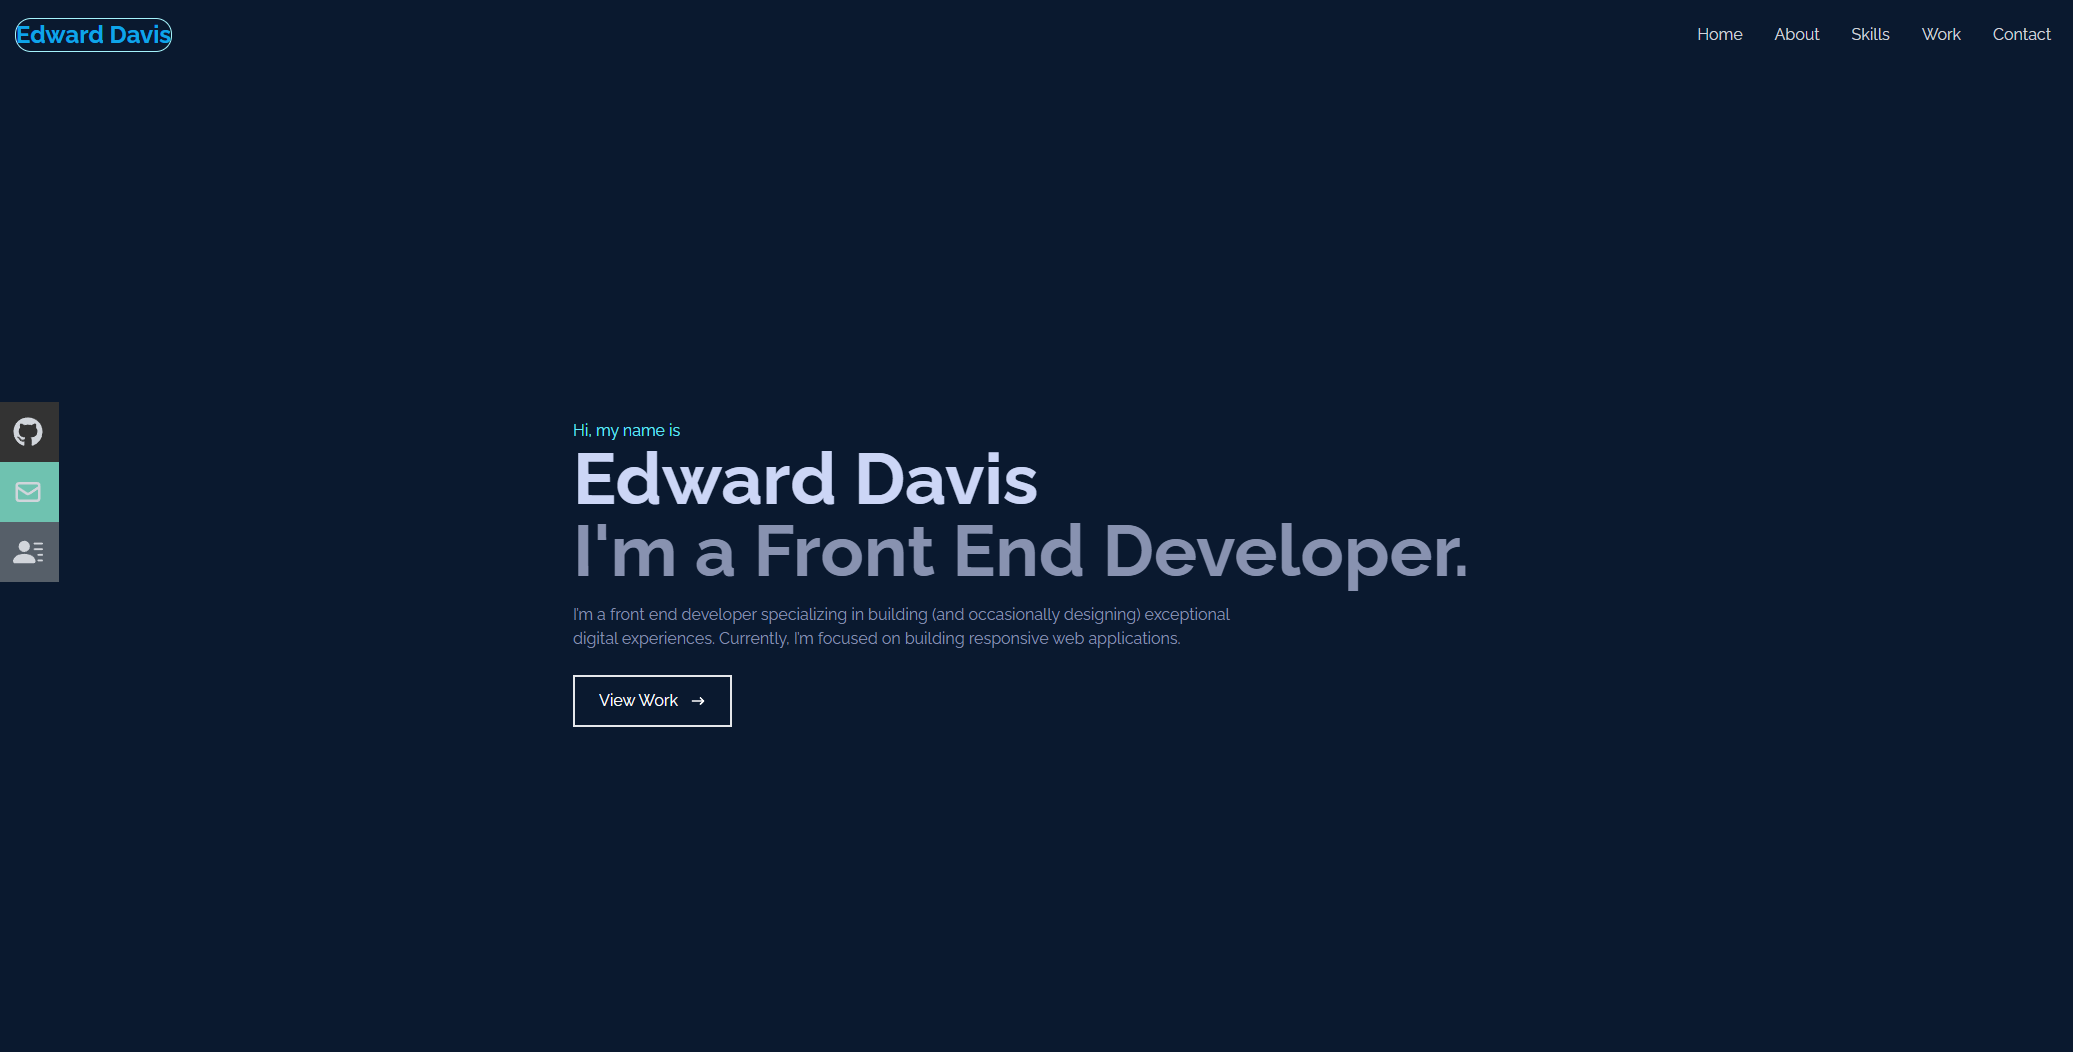
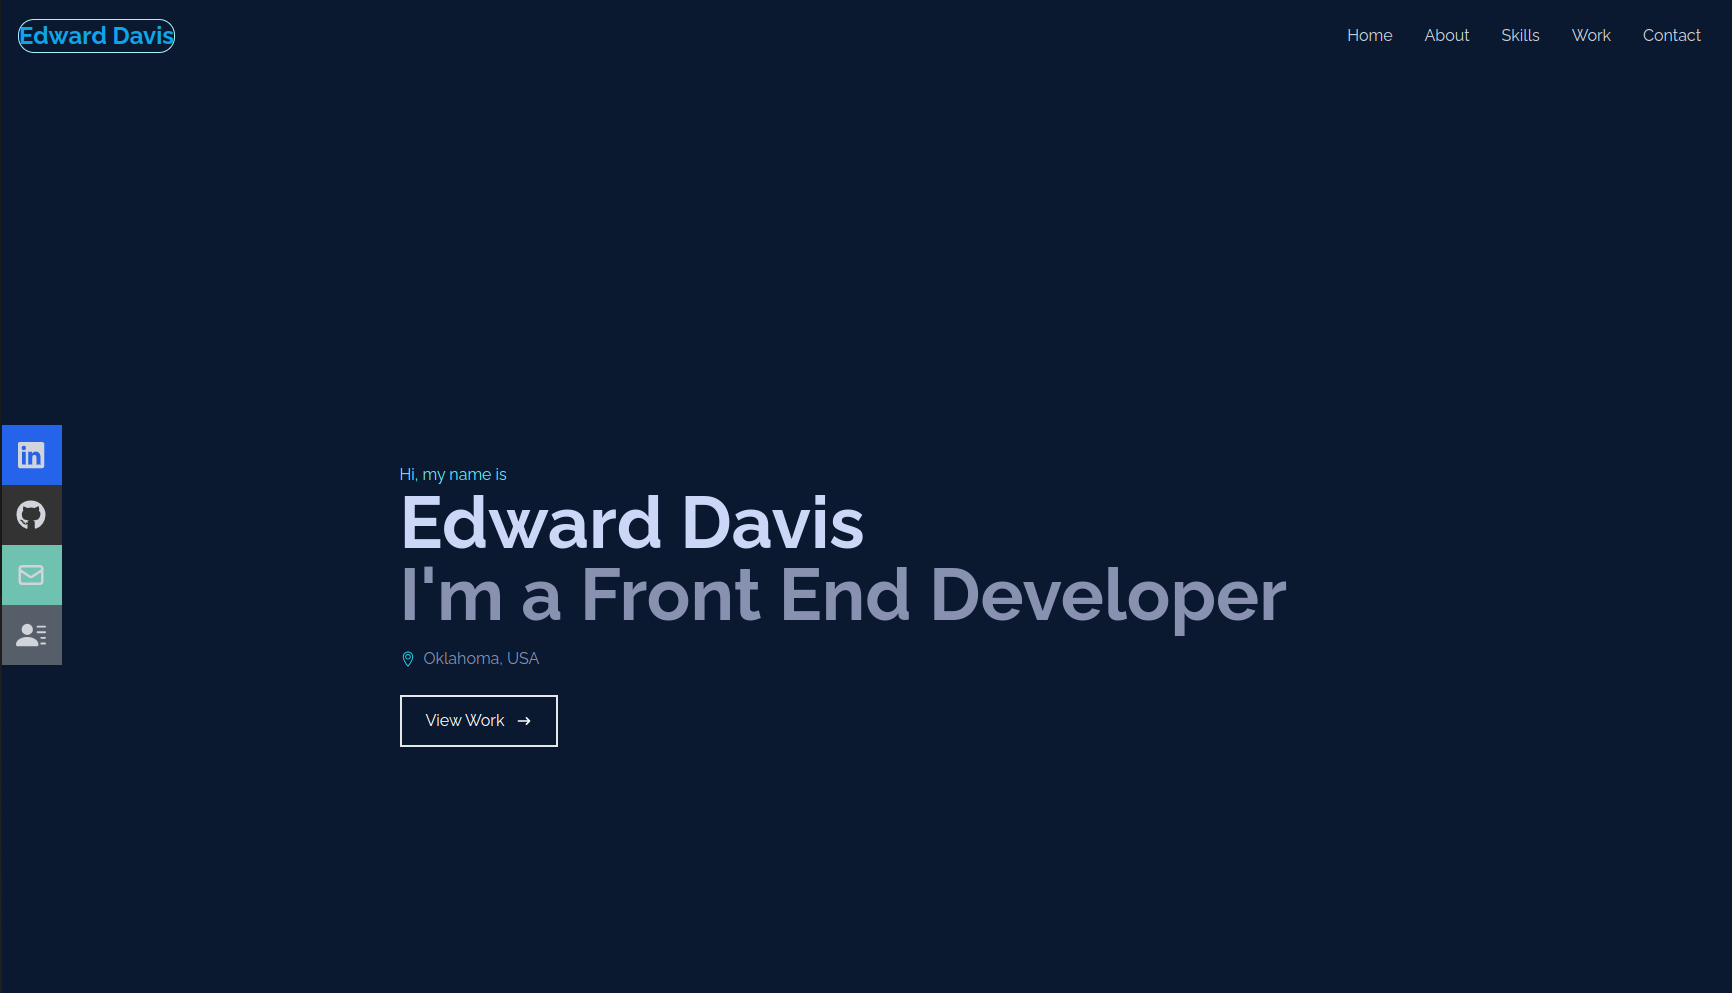
modified:   src/App.js

diff --git a/src/components/Contact.jsx b/src/components/Contact.jsx
@@ -1,5 +1,8 @@
-import React, { useState } from 'react'
-import '../contact-form.css'
+import React, { useState } from 'react';
+import '../contact-form.css';
+import { ImArrowLeft2 } from "react-icons/im";
+
+
 
 const Contact = () => {
   const [isSubmitted, setIsSubmitted] = useState(false);
@@ -43,47 +46,63 @@ const Contact = () => {
   };
 
   return (
-    <div name='contact' className='w-full h-screen bg-[#0a192f] flex justify-center items-center p-4'>
-      <form onSubmit={handleSubmit} className='flex flex-col max-w-[600px] w-full'>
-        <div className='pb-8'>
-          <p className='text-4xl font-bold inline border-b-4 border-cyan-500 text-gray-300'>Contact</p>
-          <p className='text-gray-300 py-4'>// Send me a message</p>
-        </div>
-        <div className='input-group'>
-          <input className='p-2 bg-[#0a192f]'
-            type="text"
-            name='name'
-            value={formData.name}
-            onChange={handleChange}
-            required />
-          <label for="">Name</label>
-        </div>
-        <div className='input-group'>
-          <input className='p-2 bg-[#0a192f]'
-            type="email"
-            name='email'
-            value={formData.email}
-            onChange={handleChange}
-            required />
-          <label for="">Email</label>
-        </div>
-        <textarea className='mt-4 bg-[#ccd6f6] p-2'
-          name="message"
-          rows="10"
-          value={formData.message}
-          onChange={handleChange}
-          placeholder='Message'
-          required />
+    <div className='bg-[#0a192f] relative -z-10 pt-32 sm:pt-0'>
+      
+      <div className=' absolute left-[10%] top-[30%] flex transform -rotate-45 invisible sm:visible'>
+        <ImArrowLeft2 className='text-cyan-300 text-2xl'/>
+        <p className='text-gray-300 text-xl ml-4'>Or find me here!</p>
+        
+      </div>
 
 
-        {!isSubmitted && (
-          <button className='text-white border-2 hover:bg-cyan-400 hover:border-cyan-400 px-4 py-3 my-8 mx-auto flex items-center'>Send Message</button>
-        )}
-        <p className='text-gray-300 px-4 py-3 my-8 mx-auto flex items-center'>{message}</p>
-      </form>
+      <div name='contact' className=' w-full h-screen bg-[#0a192f] flex justify-center items-center p-4'>     
+        <form onSubmit={handleSubmit} className='flex flex-col max-w-[600px] w-full'>
+          <div className='pb-8'>
+            <p className='text-4xl font-bold inline border-b-4 border-cyan-500 text-gray-300'>Contact</p>
+            <p className='text-gray-300 py-4'>// Send me a message</p>
+          </div>
+          <div className='input-group'>
+            <input
+              className='p-2 bg-[#0a192f]'
+              type='text'
+              name='name'
+              value={formData.name}
+              onChange={handleChange}
+              required
+            />
+            <label>Name</label>
+          </div>
+          <div className='input-group'>
+            <input
+              className='p-2 bg-[#0a192f]'
+              type='email'
+              name='email'
+              value={formData.email}
+              onChange={handleChange}
+              required
+            />
+            <label>Email</label>
+          </div>
+          <textarea
+            className='mt-4 bg-[#ccd6f6] p-2'
+            name='message'
+            rows='10'
+            value={formData.message}
+            onChange={handleChange}
+            placeholder='Message'
+            required
+          />
+
+          {!isSubmitted && (
+            <button className='text-white border-2 hover:bg-cyan-400 hover:border-cyan-400 px-4 py-3 my-8 mx-auto flex items-center'>
+              Send Message
+            </button>
+          )}
+          <p className='text-gray-300 px-4 py-3 my-8 mx-auto flex items-center'>{message}</p>
+        </form>
+      </div>
     </div>
-  )
-}
+  );
+};
 
-
-export default Contact
+export default Contact;

diff --git a/src/components/Navbar.jsx b/src/components/Navbar.jsx
@@ -18,7 +18,7 @@ const Navbar = () => {
   return (
     <div className='fixed w-full h-[80px] flex justify-between items-center px-4 bg-[#0a192f] text-gray-300'>
       <div>
-        <h1 className='text-2xl font-bold text-sky-500 border-double border rounded-2xl border-cyan-200'>
+        <h1 className='text-2xl font-bold text-sky-800 border-double border rounded-2xl border-cyan-200'>
           Edward Davis
         </h1>
       </div>
@@ -26,27 +26,27 @@ const Navbar = () => {
       {/* menu */}
       <ul className='hidden md:flex'>
         <li>
-          <Link to='home' smooth={true} duration={500}>
+          <Link to='home' smooth={true} duration={800}>
             Home
           </Link>
         </li>
         <li>
-          <Link to='about' smooth={true} duration={500}>
+          <Link to='about' smooth={true} duration={800}>
             About
           </Link>
         </li>
         <li>
-          <Link to='skills' smooth={true} duration={500}>
+          <Link to='skills' smooth={true} duration={800}>
             Skills
           </Link>
         </li>
         <li>
-          <Link to='work' smooth={true} duration={500}>
+          <Link to='work' smooth={true} duration={800}>
             Work
           </Link>
         </li>
         <li>
-          <Link to='contact' smooth={true} duration={500}>
+          <Link to='contact' smooth={true} duration={800}>
             Contact
           </Link>
         </li>
@@ -66,38 +66,38 @@ const Navbar = () => {
         }
       >
         <li className='py-6 text-4xl'>
-          <Link onClick={handleClick} to='home' smooth={true} duration={500}>
+          <Link onClick={handleClick} to='home' smooth={true} duration={800}>
             Home
           </Link>
         </li>
         <li className='py-6 text-4xl'>
           {' '}
-          <Link onClick={handleClick} to='about' smooth={true} duration={500}>
+          <Link onClick={handleClick} to='about' smooth={true} duration={800}>
             About
           </Link>
         </li>
         <li className='py-6 text-4xl'>
           {' '}
-          <Link onClick={handleClick} to='skills' smooth={true} duration={500}>
+          <Link onClick={handleClick} to='skills' smooth={true} duration={800}>
             Skills
           </Link>
         </li>
         <li className='py-6 text-4xl'>
           {' '}
-          <Link onClick={handleClick} to='work' smooth={true} duration={500}>
+          <Link onClick={handleClick} to='work' smooth={true} duration={800}>
             Work
           </Link>
         </li>
         <li className='py-6 text-4xl'>
           {' '}
-          <Link onClick={handleClick} to='contact' smooth={true} duration={500}>
+          <Link onClick={handleClick} to='contact' smooth={true} duration={800}>
             Contact
           </Link>
         </li>
       </ul>
 
       {/* Social icons */}
-      <div className='hidden lg:flex fixed flex-col top-[35%] left-0'>
+      <div className='hidden lg:flex fixed flex-col top-[35%] left-0 z-50'>
         <ul>
           <li className='w-[160px] h-[60px] flex justify-between items-center ml-[-100px] hover:ml-[-10px] duration-300 bg-blue-600'>
             <a

diff --git a/src/components/Home.jsx b/src/components/Home.jsx
@@ -1,6 +1,7 @@
 import React, { useState } from 'react';
 import { HiArrowNarrowRight } from 'react-icons/hi';
 import { Link } from 'react-scroll';
+import { TfiLocationPin } from 'react-icons/tfi';
 
 
 
@@ -14,19 +15,21 @@ const Home = () => {
       {/* Container */}
       <div className='max-w-[1000px] mx-auto px-8 flex flex-col justify-center h-full'>
         <p className='text-cyan-300'>Hi, my name is</p>
-        <h1 className='text-4xl sm:text-7xl font-bold text-[#ccd6f6]'>
-          Edward Davis
-        </h1>
+        <div className='flex'>
+          <h1 className='text-4xl sm:text-7xl font-bold text-[#ccd6f6]'>
+            Edward Davis
+          </h1>
+          <div className='flex items-center ml-24'>
+            <TfiLocationPin className='text-cyan-300 mr-2'/>
+            <p className='text-[#8892b0] py-4 max-w-[700px]'>Oklahoma, USA</p>
+          </div>
+        </div>
         <h2 className='text-4xl sm:text-7xl font-bold text-[#8892b0]'>
-          I am a Software Developer
+          I'm a Front End Developer
         </h2>
-        <p className='text-[#8892b0] py-4 max-w-[700px]'>
-          who specializes in building (and occasionally
-          designing) exceptional digital experiences. Currently, I’m focused on
-          building responsive web applications.
-        </p>
+        
         <div>
-          <Link onClick={handleClick} to='work' smooth={true} duration={500}>
+          <Link onClick={handleClick} to='work' smooth={true} duration={1500}>
             <button className='text-white group border-2 px-6 py-3 my-2 flex items-center hover:bg-cyan-400 hover:border-cyan-400'>
               View Work
               <span className='group-hover:rotate-90 duration-300'>

diff --git a/src/data/data.js b/src/data/data.js
@@ -1,8 +1,7 @@
 import portfolio from "../assets/projects/portfolio.png";
 import allcardb from "../assets/projects/allcardb.png";
 import elrenonailspa from "../assets/projects/elrenonailspa.png";
-import weddingInvitation from "../assets/projects/wedding-invitation.png";
-import wsd2 from "../assets/projects/wsd-classproject.png";
+import pchr from "../assets/projects/pchr.png";
 import csp from "../assets/projects/csp-classproject.png";
 
 export const data = [
@@ -31,22 +30,13 @@ export const data = [
     },
     {
         id: 4,
-        name: "Wedding Invitation",
-        image: weddingInvitation,
-        github: "https://github.com/foqsi/wedding-invitation",
-        live: "http://apollo.occc.edu/user3976/invitation/public/index.html",
-        desc: "This was a project for a friend. A simple wedding invitation website that allows us to track RSVPs with a realtime DB.",
+        name: "Personal Care Health Record - NO LIVE",
+        image: pchr,
+        github: "https://github.com/foqsi/CSharp-PCHR",
+        desc: "C# Class Project. Provided with an unfinished DB, I used Migration Builder to modify it to create *-1 & *-* relationships.",
     },
     {
         id: 5,
-        name: "WSD Project Store",
-        image: wsd2,
-        github: "https://github.com/foqsi/WSD-FinalProject/tree/second-project",
-        live: "http://apollo.occc.edu/user3976/wsd/pacific14/index.html",
-        desc: "This was project for the same Web Site class. It is built with basic HTML & CSS. It is a mock store."
-    },
-    {
-        id: 6,
         name: "CSP Project",
         image: csp,
         github: "https://github.com/foqsi/CSP-FinalProject",

diff --git a/src/App.js b/src/App.js
@@ -1,3 +1,5 @@
+import React from "react";
+import { Link, Element } from "react-scroll";
 import About from "./components/About";
 import Contact from "./components/Contact";
 import Home from "./components/Home";
@@ -5,16 +7,28 @@ import Navbar from "./components/Navbar";
 import Skills from "./components/Skills";
 import Work from "./components/Work";
 
-
 function App() {
   return (
     <div>
       <Navbar />
-      <Home />
-      <About />
-      <Skills />
-      <Work />
-      <Contact />
+      <div>
+        {/* Define each section as an "Element" for smooth scrolling */}
+        <Element name="home">
+          <Home />
+        </Element>
+        <Element name="about">
+          <About />
+        </Element>
+        <Element name="skills">
+          <Skills />
+        </Element>
+        <Element name="work">
+          <Work />
+        </Element>
+        <Element name="contact">
+          <Contact />
+        </Element>
+      </div>
     </div>
   );
 }

diff --git a/src/components/About.jsx b/src/components/About.jsx
@@ -17,9 +17,12 @@ const About = () => {
             <p>Computer Science student.</p>
           </div>
           <div>
-            <p>I am passionate about building excellent software that improves
-              the lives of those around me. I specialize in creating software
-              for individual clients and small businesses.</p>
+            <p>
+              Currently working on a BT degree in Software Development and work on my own personal projects. 
+              I have been programming for almost three years.
+              <br/>
+              I enjoy gaming and turning wrenches in my free time.
+              </p>
           </div>
         </div>
       </div>

diff --git a/src/components/Skills.jsx b/src/components/Skills.jsx
@@ -7,7 +7,7 @@ const Skills = () => {
             <div className='max-w-[1000px] mx-auto p-4 flex flex-col justify-center w-full h-full'>
                 <div>
                     <p className='text-4xl font-bold inline border-b-4 border-cyan-500 '>Skills</p>
-                    <p className='py-4'>// These are the technologies I've worked with</p>
+                    <p className='py-4'>// These are the technologies I've worked with the most</p>
                 </div>
                 <div className='w-full grid grid-cols-2 sm:grid-cols-4 gap-4 text-center py-8'>
                     <div className='shadow-md shadow-[#040c16] hover:scale-110 duration-500'>

diff --git a/src/components/Work.jsx b/src/components/Work.jsx
@@ -9,7 +9,7 @@ const Work = () => {
   //setProject(data);
 
   return (
-    <div name='work' className='w-full md:h-screen text-gray-300 bg-[#0a192f]'>
+    <div name='work' className='w-full md:h-screen text-gray-300 bg-[#0a192f] pt-32 sm:pt-0'>
       <div className='max-w-[1000px] mx-auto p-4 flex flex-col justify-center w-full h-full'>
         <div className='pb-8'>
           <p className='text-4xl font-bold inline border-b-4 text-gray-300 border-cyan-500'>
